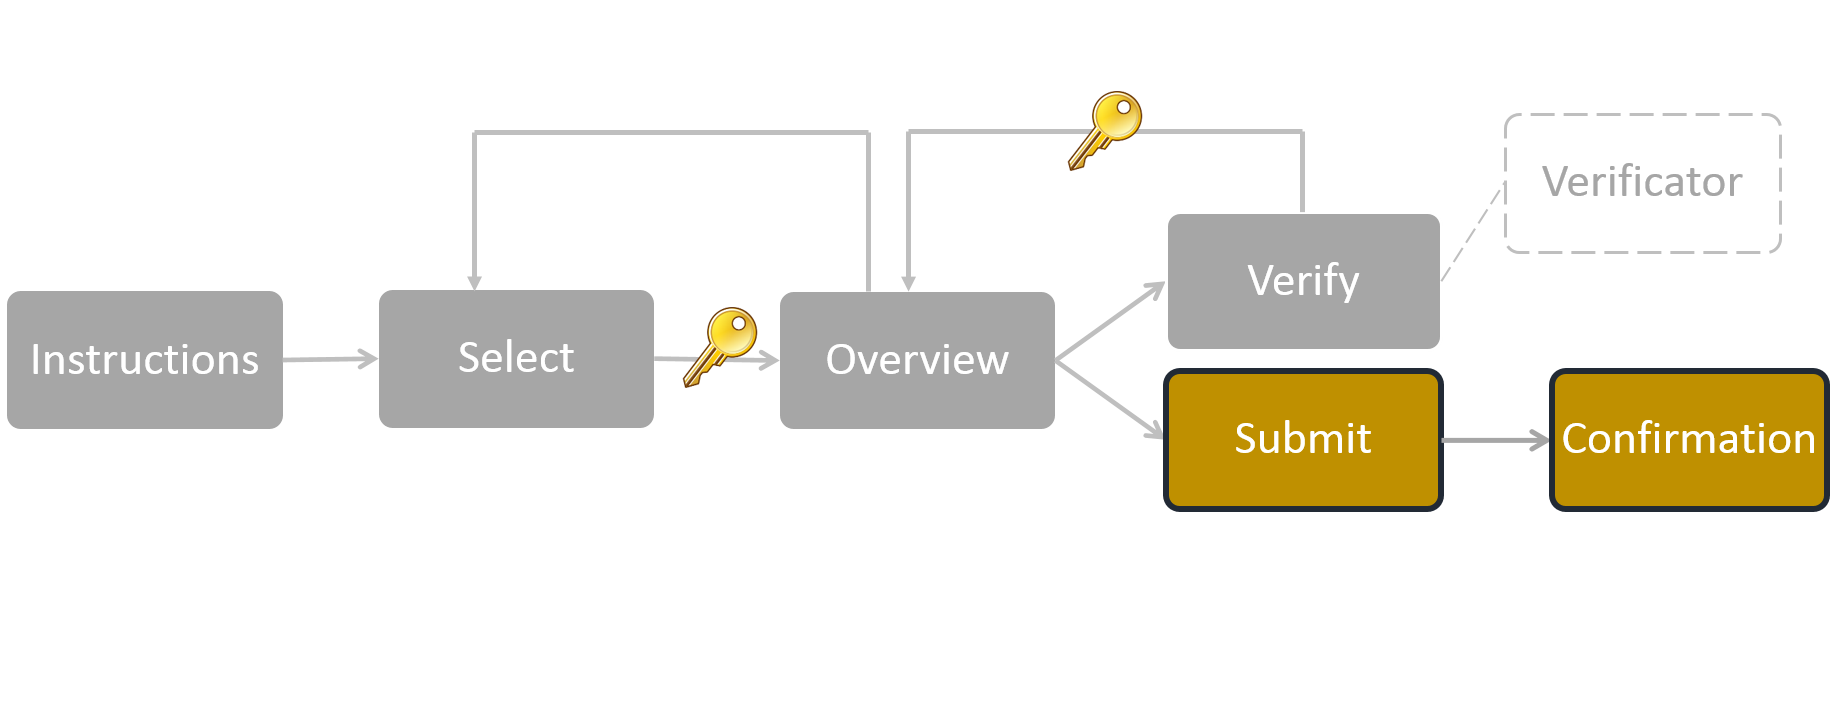
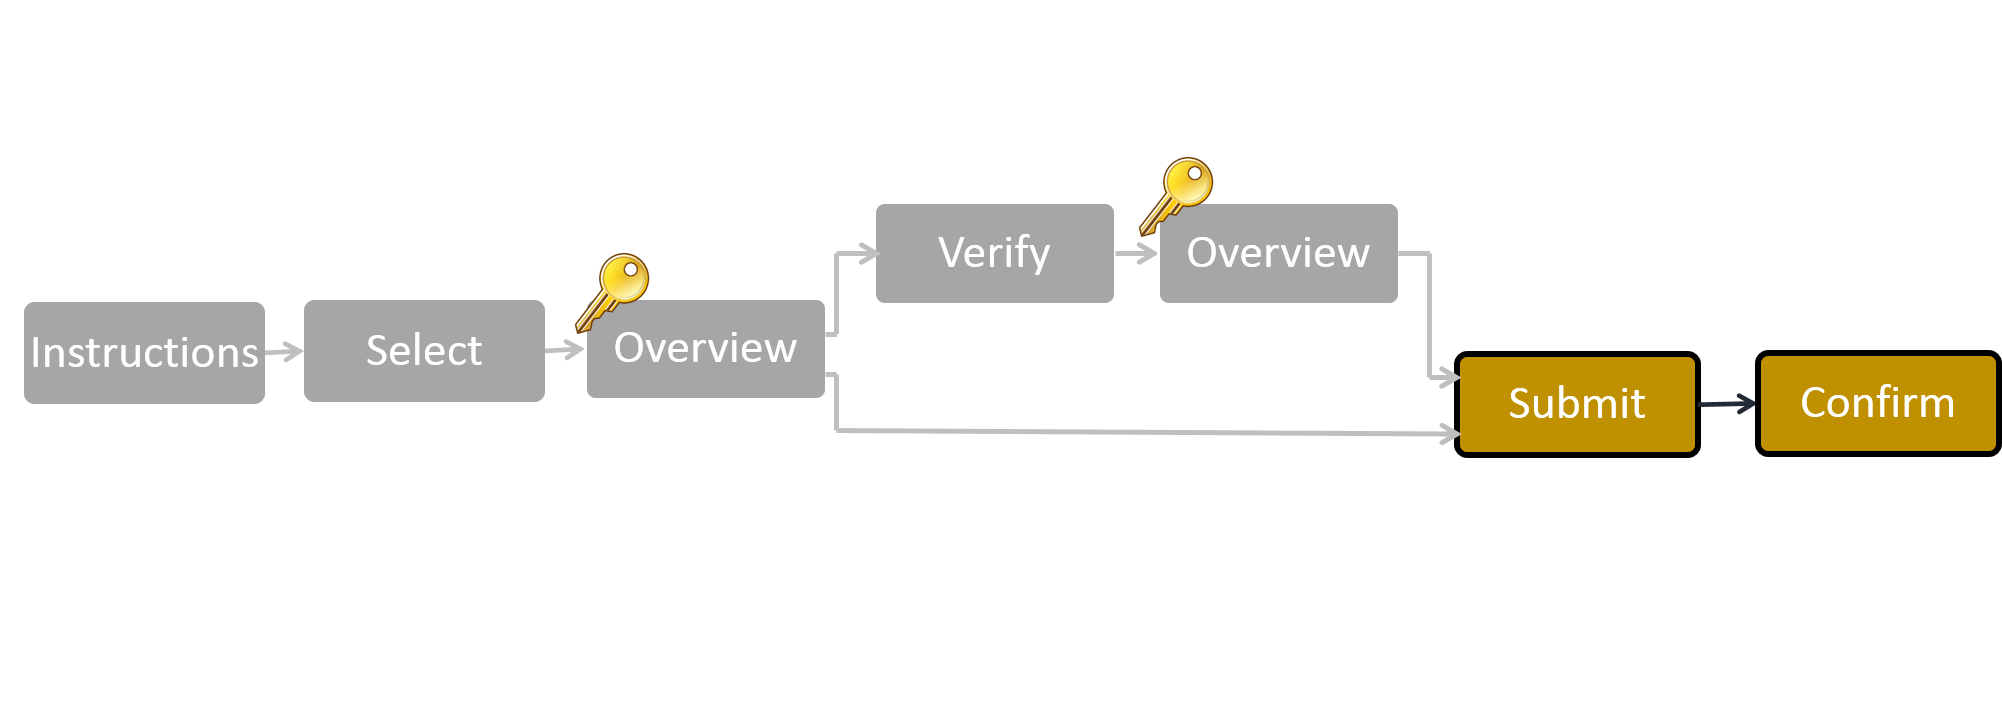
more UE changes and new progress tracker

diff --git a/helios_booth/templates/NL/instructions_nl.html b/helios_booth/templates/NL/instructions_nl.html
@@ -4,7 +4,7 @@
 	Beste kiezer, <br />
     Om succesvol je stem uit te brengen moeten onderstaande stappen doorlopen worden.
     <br />
-    De eerste 4 stappen (figuur: de licht-grijze blokken) zijn pagina's lokaal in je browser. Dit wil zeggen dat er geen verbinding is met de server en er dus ook geen (geheime) informatie kan doorgespeeld worden:
+    De eerste 4 stappen (voortgangsbalk: de licht-grijze blokken) zijn pagina's lokaal in je browser. Dit wil zeggen dat er geen verbinding is met de server en er dus ook geen (geheime) informatie kan doorgespeeld worden:
   <p>
 
   <ol>
@@ -22,7 +22,7 @@
     <li>
       <font size="5">Kijk je keuzes na in het <b>overzicht</b>.</font>
       <br />
-      <span style="font-size: 14pt;"> Je keuzes worden veilig geëncrypteerd binnen je browser om ervoor te zorgen dat je stem geheim blijft.</span>
+      <span style="font-size: 14pt;"> Je keuzes worden veilig geëncrypteerd (= versleuteld) binnen je browser om ervoor te zorgen dat je stem geheim blijft.</span>
     </li>
 
     <br />
@@ -30,17 +30,17 @@
     <li>
       <font size="5"><b>Verifieer</b> de encryptie (optioneel).</font>
       <br />
-      <span style="font-size: 14pt;">Om er zeker van te zijn dat je stem juist is geëncrypteerd kan je ervoor kiezen om deze te verifiëren. Je kan dit proces zo vaak doorlopen als je wilt, tot je er van overtuigd bent dat het stemsysteem correct werkt. </span>
+      <span style="font-size: 14pt;">Om er zeker van te zijn dat je stem juist is geëncrypteerd (de encryptie is een versleutelde versie van je stem) kan je ervoor kiezen om deze te verifiëren. Je kan dit proces zo vaak doorlopen als je wilt, tot je er van overtuigd bent dat het stemsysteem correct werkt. </span>
     </li>
 </ol>
 
-	Na de encryptie en de optionele verificatie zal je moeten inloggen om je stem te kunnen indienen (figuur: donkere blokken). Vanaf hier zal dus verbinding gemaakt worden met de Helios-server. Je stem is echter al geëncrypteerd en blijft dus geheim. 
+	Na de encryptie en de optionele verificatie zal je moeten inloggen om je stem te kunnen indienen (voortgangsbalk: donkere blokken). Vanaf hier zal dus verbinding gemaakt worden met de Helios-server. Je stem is echter al geëncrypteerd en blijft dus geheim. 
     <br />
 <ol start="5">
     <li>
       <font size="5"><b>Dien</b> je geëncrypteerde keuzes in.</font>
       <br />
-      <span style="font-size: 14pt;">Je zal gevraagd worden om in te loggen en je krijgt een <i>verificatie code</i>. Het is belangrijk dat je deze code bewaart zodat je later kan nakijken of je stem daadwerkelijk is meegeteld. Wanneer je stem correct is ingediend zal je een confirmatie te zien krijgen.</span>
+      <span style="font-size: 14pt;">Je zal gevraagd worden om in te loggen en je krijgt een <i>verificatie code</i>. Het is belangrijk dat je deze code bewaart zodat je later kan nakijken of je stem daadwerkelijk is meegeteld. Wanneer je stem correct is ingediend zal je een confirmatie te zien krijgen en ontvan je ook een bevestigings-email.</span>
     </li>
 </ol>
     <br />

diff --git a/helios_booth/templates/instructions.html b/helios_booth/templates/instructions.html
@@ -6,7 +6,7 @@
 	Dear voter, <br />
     To cast a vote, you will be led through the following steps.
     <br />
-    The first 4 steps (figure: the light gray blocks) are HTML-pages within your browser. This means there's no connection with the Helios-server and so no information can be passed through:
+    The first 4 steps (progress-image: the light gray blocks) are HTML-pages within your browser. This means there's no connection with the Helios-server and so no information can be passed through:
   <p>
 
   <ol>
@@ -24,7 +24,7 @@
     <li>
       <font size="5">Check the <b>overview</b> of your choices.</font>
       <br />
-      <span style="font-size: 14pt;">Your choices are encrypted safely inside your browser to keep your vote secret. </span>
+      <span style="font-size: 14pt;">Your choices are encrypted (=coded) safely inside your browser to keep your vote secret. </span>
     </li>
 
     <br />
@@ -32,17 +32,17 @@
     <li>
       <font size="5"><b>Verify</b> the encryption (optional).</font>
       <br />
-      <span style="font-size: 14pt;">To ensure that your vote is correctly encrypted, you can have the encryption verified. You can repeat this process as many times as you want, until you are convinced that this vote system functions correctly.</span>
+      <span style="font-size: 14pt;">To ensure that your vote is correctly encrypted, you can have the encryption (the encryption is a coded version of your vote) verified. You can repeat this process as many times as you want, until you are convinced that this encryption system functions correctly. </span>
     </li>
 </ol>
 
-	After the encryption and the optional verification you will need to log in to submit your vote (figure: dark blocks). A connection with the Helios-server will be made from here on but since you vote is encrypted it will remain a secret. 
+	After the encryption and the optional verification you will need to log in to submit your vote (progress-image: dark blocks). A connection with the Helios-server will be made from here on but since you vote is encrypted it will remain a secret. 
     <br />
   <ol start="5">
     <li>
       <font size="5"><b>Submit</b> your encrypted choices.</font>
       <br />
-      <span style="font-size: 14pt;">You will be asked to log in to submit your encrypted choices and you will also recieve a <i>verification code</i>. It is important that you save this code to later check whether your vote has been counted. When your voted is correctly submitted you will see a confirmation. </span>
+      <span style="font-size: 14pt;">You will be asked to log in to submit your encrypted choices and you will also recieve a <i>verification code</i>. It is important that you save this code to later check whether your vote has been counted. When your voted is correctly submitted you will see a confirmation and you will also get a confirmation e-mail. </span>
     </li>
 </ol>
     <br />

diff --git a/helios_booth/vote.html b/helios_booth/vote.html
@@ -390,6 +390,8 @@
         };
 
         BOOTH.click_checkbox = function(question_num, answer_num, checked_p) {
+ 	   // make the minimum_box dissapear
+		 $('#Minimum_box').html("");
           // keep track of dirty answers that need encrypting
           BOOTH.dirty[question_num] = true;
 
@@ -722,7 +724,7 @@
           <h3 align="center">
 	    <img src="Media/key-icon.png" width="10%" />
 	    <br />
-            Helios is now encrypting your vote...
+            Helios is now encrypting (coding) your vote...
             <br />
             <img src="encrypting.gif" /> <span style="font-size:0.7em; display:none;" id="percent_done_container">(<span id="percent_done">0</span>%)</span>
           </h3>
@@ -734,7 +736,7 @@
           <h3 align="center">
 	    <img src="Media/key-icon.png" width="10%" />
 	    <br />
-            Helios encrypteert nu je stem...
+            Helios encrypteert (versleuteld) nu je stem...
             <br />
             <img src="encrypting.gif" /> <span style="font-size:0.7em; display:none;" id="percent_done_container">(<span id="percent_done">0</span>%)</span>
           </h3>

diff --git a/helios_verifier/verify.html b/helios_verifier/verify.html
@@ -362,9 +362,8 @@
 
         <p>
           This tool will verify the tally of the specified election. The required data is retrieved from the server, but all calculations are done locally in your browser. </p>
-	</br> </br>
 <p>
-IMPORTANT: We want the user to know this tool needs quite a lot of computing power. It is possible your browser will complain or get stuck and the program can take up until 10 minutes.</p> </br></br>
+IMPORTANT: We want the user to know this tool needs quite a lot of computing power. It is possible your browser will complain or get stuck and the program can take up until 10 minutes.</p>
 </p> IMPORTANT: This version of the tool does not work when you use Internet Explorer as your browser. Please, try a different browser.
         </p>
 
